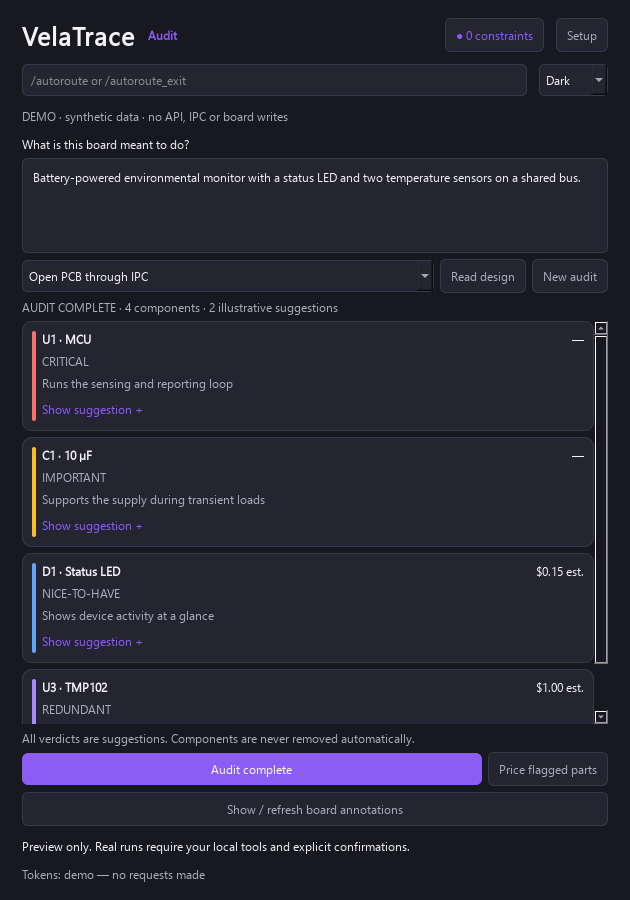
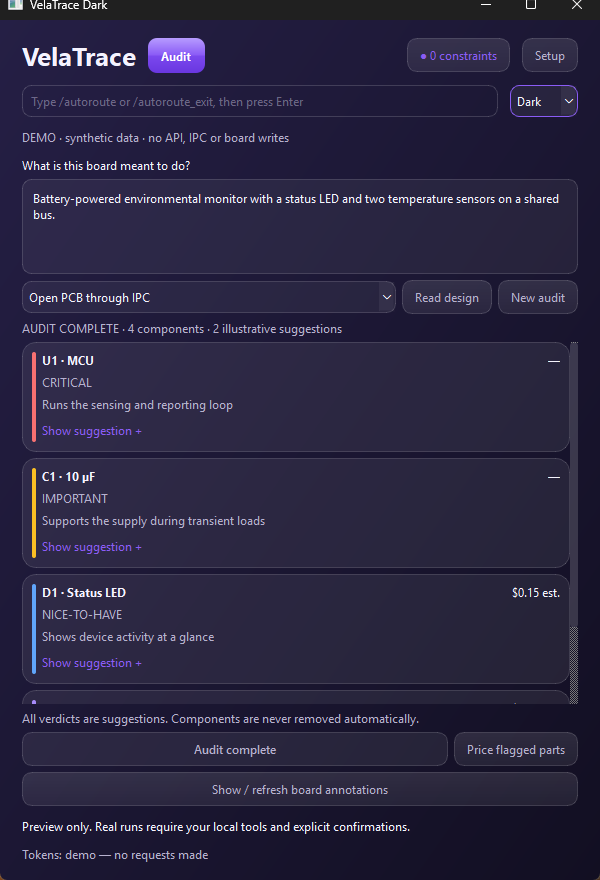
UI makeover: frosted glass theme
Glossy violet primary buttons with a highlight band, translucent glass cards
with a light rim, rounded fields with focus accents, slim scrollbars and a
pill mode badge over a painted frosted gradient, in dark and light. Popups,
tooltips and dialogs stay solid for legibility.

Real Windows 11 Acrylic was measured on 25H2 and rejected: Windows removes
the backdrop from stay-on-top windows (VelaTrace stays above KiCad), and
dark Acrylic is near-opaque grey. The frosted look is consistent on every OS.

Changed region(s): [[0.0, 0.0, 0.99, 0.9818], [0.96, 0.2148, 0.99, 0.2761], [0.99, 0.9818, 1.0, 1.0]]

diff --git a/src/velatrace/ui.py b/src/velatrace/ui.py
@@ -45,6 +45,61 @@ BUCKET_COLORS = {"critical": "#F87171", "important": "#FBBF24",
                  "nice-to-have": "#60A5FA", "redundant": "#A78BFA"}
 
 
+def theme_tokens(dark: bool) -> dict:
+    """Colours for the frosted-glass look: translucent cards over a painted gradient.
+
+    Real Windows 11 Acrylic was measured and rejected: Windows removes it from
+    stay-on-top windows (VelaTrace stays above KiCad), and dark Acrylic renders
+    as near-opaque grey. Popups and dialogs stay solid for legibility."""
+    if dark:
+        tokens = dict(fg="#F5F3FF", muted="#B7B1CF", solid="#1C1930", rim="rgba(255,255,255,40)",
+                      card="rgba(255,255,255,18)", card_hover="rgba(255,255,255,28)",
+                      field="rgba(255,255,255,14)",
+                      frost="qlineargradient(x1:0,y1:0,x2:1,y2:1, stop:0 #251F45, stop:1 #120F22)")
+    else:
+        tokens = dict(fg="#1E1933", muted="#5E5874", solid="#F6F3FF", rim="rgba(255,255,255,230)",
+                      card="rgba(255,255,255,150)", card_hover="rgba(255,255,255,200)",
+                      field="rgba(255,255,255,170)",
+                      frost="qlineargradient(x1:0,y1:0,x2:1,y2:1, stop:0 #F7F4FF, stop:1 #E4DDFB)")
+    return tokens
+
+
+def glass_stylesheet(t: dict) -> str:
+    gloss = ("qlineargradient(x1:0,y1:0,x2:0,y2:1, stop:0 #B79CFF, stop:0.48 #8B5CF6, "
+             "stop:0.52 #7A48EE, stop:1 #6A36E0)")
+    return f"""
+        QMainWindow {{background:{t['solid']}}}
+        QWidget {{background:transparent; color:{t['fg']}; font-family:'Segoe UI Variable Text','Segoe UI'; font-size:12px}}
+        QWidget#glassRoot {{background:{t['frost']}}}
+        QDialog, QMessageBox {{background:{t['frost']}}}
+        QLabel#muted {{color:{t['muted']}}}
+        QLabel#title {{font-size:26px; font-weight:700; color:{t['fg']}}}
+        QLabel#mode {{color:white; font-weight:700; padding:2px 10px; border-radius:9px; background:{gloss}}}
+        QFrame#card {{background:{t['card']}; border:1px solid {t['rim']}; border-radius:14px}}
+        QFrame#card:hover {{background:{t['card_hover']}}}
+        QFrame#card QLabel {{background:transparent}}
+        QPushButton {{background:qlineargradient(x1:0,y1:0,x2:0,y2:1, stop:0 {t['card_hover']}, stop:1 {t['card']});
+                      border:1px solid {t['rim']}; border-radius:10px; padding:8px 12px}}
+        QPushButton:hover {{border-color:{ACCENT}}}
+        QPushButton:pressed {{background:{t['card']}}}
+        QPushButton:disabled {{color:{t['muted']}}}
+        QPushButton#primary {{background:{gloss}; color:white; border:1px solid rgba(255,255,255,90); font-weight:600}}
+        QPushButton#primary:hover {{border-color:white}}
+        QPushButton#primary:disabled {{background:{t['card']}; color:{t['muted']}; border:1px solid {t['rim']}}}
+        QPushButton#textButton {{border:0; color:{ACCENT}; padding:4px 0px; background:transparent}}
+        QLineEdit,QTextEdit,QComboBox,QSpinBox,QDoubleSpinBox,QListWidget {{background:{t['field']};
+                      border:1px solid {t['rim']}; border-radius:9px; padding:6px}}
+        QLineEdit:focus,QTextEdit:focus,QComboBox:focus {{border-color:{ACCENT}}}
+        QComboBox QAbstractItemView, QToolTip {{background:{t['solid']}; color:{t['fg']}; border:1px solid {ACCENT}}}
+        QScrollArea {{border:0}} QCheckBox {{spacing:7px}}
+        QScrollBar:vertical {{width:8px; background:transparent}}
+        QScrollBar::handle:vertical {{background:{t['rim']}; border-radius:4px; min-height:30px}}
+        QScrollBar::add-line:vertical, QScrollBar::sub-line:vertical {{height:0}}
+        QLineEdit:disabled,QTextEdit:disabled,QComboBox:disabled,QSpinBox:disabled,QDoubleSpinBox:disabled,QListWidget:disabled {{color:{t['muted']}; background:transparent}}
+        QCheckBox:disabled,QLabel:disabled {{color:{t['muted']}}}
+    """
+
+
 def label(text="", *, muted=False):
     widget = QLabel(text)
     widget.setTextFormat(Qt.TextFormat.PlainText)
@@ -372,6 +427,7 @@ class MainWindow(QMainWindow):
         screen = QApplication.primaryScreen().availableGeometry()
         self.resize(630, min(900, screen.height() - 80))
         self._positioned = False
+        self._dark = True
         self.demo = demo
         self.config_dir = Path(config_dir or QStandardPaths.writableLocation(QStandardPaths.StandardLocation.AppConfigLocation))
         self.constraints = ConstraintStore(self.config_dir / "constraints.json")
@@ -408,12 +464,13 @@ class MainWindow(QMainWindow):
 
     def build_ui(self):
         central = QWidget()
+        central.setObjectName("glassRoot")
         layout = QVBoxLayout(central)
         layout.setContentsMargins(22, 18, 22, 18)
         layout.setSpacing(12)
         header = QHBoxLayout()
         title = label("VelaTrace")
-        title.setStyleSheet("font-size:25px; font-weight:700")
+        title.setObjectName("title")
         header.addWidget(title)
         self.mode_label = label("Audit")
         self.mode_label.setObjectName("mode")
@@ -541,29 +598,14 @@ class MainWindow(QMainWindow):
     def apply_theme(self, choice):
         if choice == "KiCad":
             choice = (saved_kicad_theme(*self.reader.version[:2]) if self.reader else None) or "System"
-        dark = choice == "Dark" or (choice == "System" and QApplication.palette().window().color().lightness() < 128)
-        bg, card, fg, muted, border = (("#171820", "#242530", "#F4F3FA", "#ACADBD", "#393A48") if dark else
-                                      ("#F5F4F8", "#FFFFFF", "#252331", "#686575", "#E1DFE9"))
+        self._dark = choice == "Dark" or (choice == "System" and QApplication.palette().window().color().lightness() < 128)
+        tokens = theme_tokens(self._dark)
         palette = self.palette()
-        for role, value in ((QPalette.ColorRole.Window, bg), (QPalette.ColorRole.Base, card),
-                            (QPalette.ColorRole.Text, fg), (QPalette.ColorRole.WindowText, fg)):
+        for role, value in ((QPalette.ColorRole.Window, tokens["solid"]), (QPalette.ColorRole.Base, tokens["solid"]),
+                            (QPalette.ColorRole.Text, tokens["fg"]), (QPalette.ColorRole.WindowText, tokens["fg"])):
             palette.setColor(role, QColor(value))
         self.setPalette(palette)
-        self.setStyleSheet(f"""
-            QMainWindow, QDialog, QWidget {{background:{bg}; color:{fg}; font-family:'Segoe UI'; font-size:12px}}
-            QLabel#muted {{color:{muted}}} QLabel#mode {{color:{ACCENT}; font-weight:700}}
-            QFrame#card {{background:{card}; border:1px solid {border}; border-radius:9px}}
-            QFrame#card QLabel {{background:transparent}}
-            QPushButton {{border:1px solid {border}; border-radius:6px; padding:8px 10px; background:{card}}}
-            QPushButton:hover {{border-color:{ACCENT}}} QPushButton:disabled {{color:{muted}}}
-            QPushButton#primary {{background:{ACCENT}; color:white; border:0; font-weight:600}}
-            QPushButton#primary:disabled {{background:{border}; color:{muted}}}
-            QPushButton#textButton {{border:0; color:{ACCENT}; padding:4px 0px; background:transparent}}
-            QLineEdit,QTextEdit,QComboBox,QSpinBox,QDoubleSpinBox,QListWidget {{background:{card}; border:1px solid {border}; border-radius:5px; padding:6px}}
-            QScrollArea {{border:0}} QCheckBox {{spacing:7px}}
-            QLineEdit:disabled,QTextEdit:disabled,QComboBox:disabled,QSpinBox:disabled,QDoubleSpinBox:disabled,QListWidget:disabled {{color:{muted}; background:{bg}}}
-            QCheckBox:disabled,QLabel:disabled {{color:{muted}}}
-        """)
+        self.setStyleSheet(glass_stylesheet(tokens))
 
     def refresh_badge(self):
         self.badge.setText(f"● {len(self.constraints.items)} constraints")

diff --git a/tests/test_theme.py b/tests/test_theme.py
@@ -18,3 +18,18 @@ class ThemeTests(unittest.TestCase):
                 self.assertIsNone(saved_kicad_theme(10, config_root=folder, platform="linux"))
             path.write_text("invalid")
             self.assertIsNone(saved_kicad_theme(10, config_root=folder, platform="win32"))
+
+
+class GlassThemeTests(unittest.TestCase):
+    def test_frosted_theme_is_complete_and_popups_stay_solid(self):
+        from velatrace.ui import glass_stylesheet, theme_tokens
+        for dark in (True, False):
+            with self.subTest(dark=dark):
+                tokens = theme_tokens(dark)
+                sheet = glass_stylesheet(tokens)
+                self.assertIn("qlineargradient", tokens["frost"])  # painted frosted backdrop
+                self.assertIn(f"QWidget#glassRoot {{background:{tokens['frost']}}}", sheet)
+                # Dropdown lists and tooltips must never be see-through.
+                self.assertIn(f"QToolTip {{background:{tokens['solid']}", sheet)
+                self.assertNotIn("{", tokens["solid"])
+                self.assertIn("QPushButton#primary:disabled", sheet)
